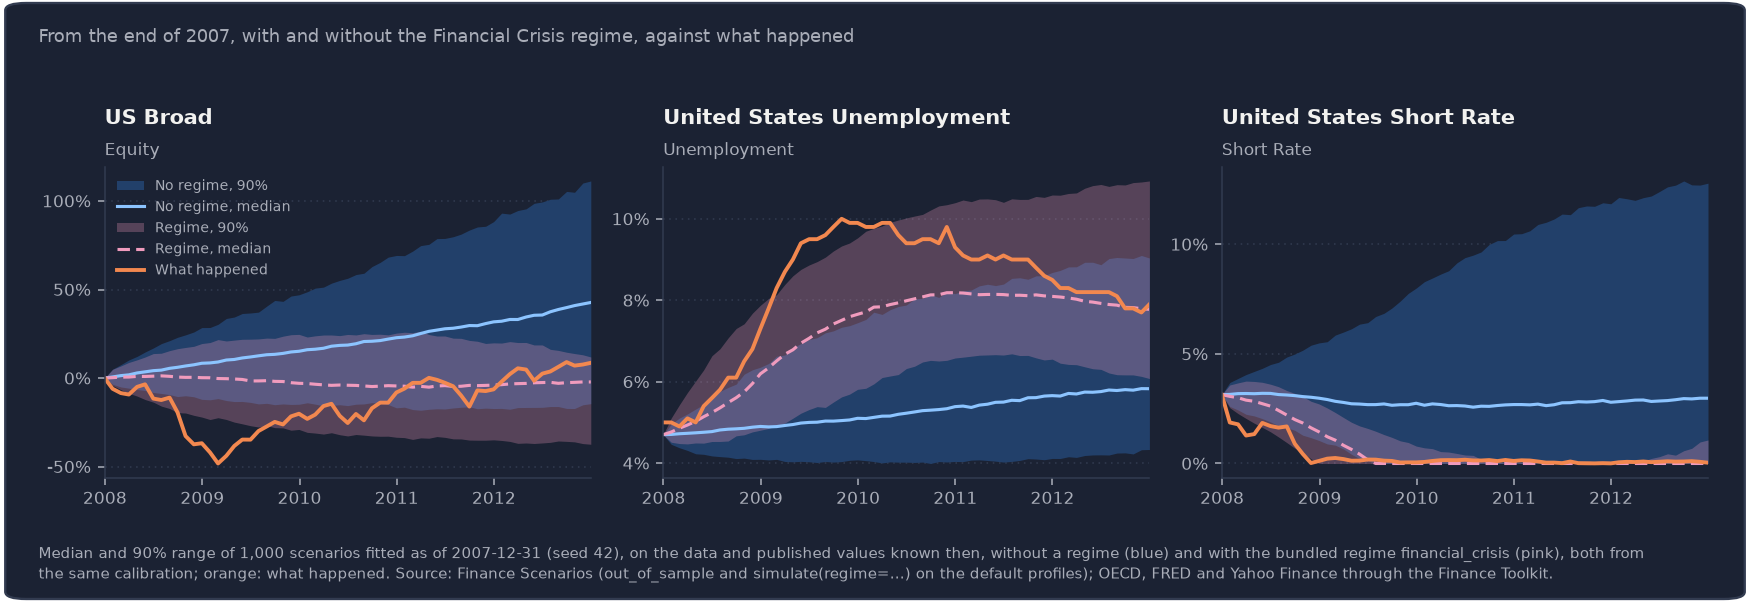
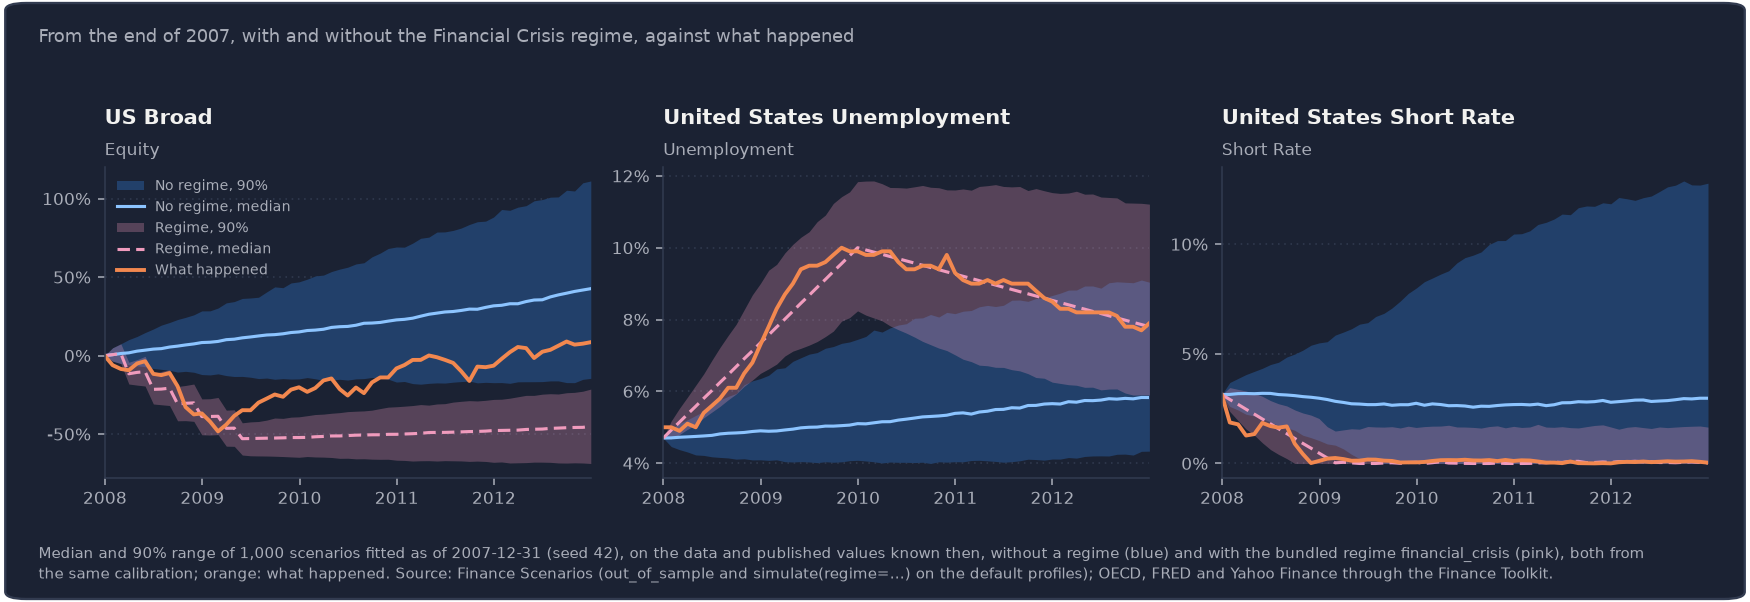
Finance Scenarios: 2008 against the Financial Crisis replay, KNW stochastic volatility mean-adjusted
The 2008 chart is re-run on the regime that replays 2007-09: stocks, unemployment and
the short rate now lie inside its band. The KNW page and its example table follow the
mean-adjusted stochastic-volatility fit.

diff --git a/_pages/financescenarios/documentation/validation/out-of-sample.md b/_pages/financescenarios/documentation/validation/out-of-sample.md
@@ -167,9 +167,9 @@ A 90% band should hold 90% of the years. US and euro-area inflation hold 85% and
 
 ## Crises against the Bundled Regimes {#crises-against-the-bundled-regimes}
 
-The baseline is a model of ordinary times, fitted on a few decades, and the fans above show the crises it does not reach in their first year. That is what the [regimes](/projects/financescenarios/docs/regimes) are for. Each chart below starts from the same past origin and the same calibration as the fan, and runs it twice: without a regime, and with the bundled regime written for that crisis. The test is whether the regime library covers the event, not whether the model foresaw it: the COVID and 2022 regimes are written from those very episodes' published paths, so reaching them shows only that they are calibrated to what happened, and, timed from the origin, they run a month or two early. The financial-crisis regime is the fairer test, since it sets no levels and only keeps the scenarios where stocks fall, unemployment rises and rates are cut together.
+The baseline is a model of ordinary times, fitted on a few decades, and the fans above show the crises it does not reach in their first year. That is what the [regimes](/projects/financescenarios/docs/regimes) are for. Each chart below starts from the same past origin and the same calibration as the fan, and runs it twice: without a regime, and with the bundled regime written for that crisis. The test is whether the regime library covers the event, not whether the model foresaw it: each regime below is written from its episode's published paths, so reaching them shows only that they are calibrated to what happened, and, timed from the origin, they can run a month or two early.
 
-**2008: the financial-crisis regime does not reach it.** It moves the cloud the right way, but not far enough. US stocks fell 48.2% to their low of February 2009; by then 1 in 20 scenarios had fallen 16.4% without the regime and 26.1% with it, and the regime's lowest 5th percentile over the five years is -37.4%. US unemployment peaked at 10.0% in October 2009; by then 1 in 20 scenarios had reached 7.5% without the regime and 9.4% with it, so the peak lies just outside, and the regime's 95th percentile reaches 10.9% only later. The short rate's fall to zero is inside both, and with the regime it is the median path. The chart shows all three from the end of 2007, without and with the regime:
+**2008: the Financial Crisis regime reaches it.** US stocks fell 48.2% to their low of February 2009; by then 1 in 20 scenarios had fallen 16.4% without the regime and 51.3% with it, and the regime's median was down 38.6%. US unemployment peaked at 10.0% in October 2009; by then 1 in 20 scenarios had reached 7.5% without the regime and 11.4% with it, and the regime's median, at 9.6%, was on its way to 10.0%. The short rate's fall to zero is inside both, and with the regime it is the median path. The chart shows all three from the end of 2007, without and with the regime:
 
 {% include theme-image.html src="/assets/images/projects/financescenarios/docs/validation/crisis-2008" alt="From the end of 2007, US stocks, US unemployment and the US short rate without a regime and with the Financial Crisis regime, against what happened" %}
 

diff --git a/_pages/financescenarios/documentation/interest-rates/knw.md b/_pages/financescenarios/documentation/interest-rates/knw.md
@@ -51,7 +51,7 @@ Each variant adds one layer to the one before:
 | KNW with stochastic volatility (`knw_sv`) | A shared hidden turbulence factor $$v$$ that scales volatility and shifts the drift; optional equity leg | Calm and stressed regimes that hit rates, inflation and equity at once |
 | Risk-neutral KNW (`knw_sv` with `measure: risk_neutral`) | A market price of risk fitted to the Treasury curve, closed-form bond prices, and a stochastic deflator for a real-world run | Valuation, and a model yield curve at any maturity |
 
-With the turbulence terms at zero, the equations of KNW with stochastic volatility are plain KNW's. The fits differ, though: plain KNW is fitted on deviations from the history's averages, the stochastic-volatility variant with a free intercept in each equation.
+With the turbulence terms at zero, the equations of KNW with stochastic volatility are plain KNW's, and both are fitted on deviations from the history's averages, so the pair settles at those averages. `mean_estimate: regression` fits a free intercept in each equation instead, which leans the long-run levels toward where the sample ends.
 
 The diagram shows which variable drives which:
 
@@ -308,17 +308,17 @@ Which gives, calibrated on 24 October 2026, among other columns:
 
 | factor | horizon | q0.05 | q0.5 | q0.95 |
 |:-------|--------:|------:|-----:|------:|
-| interest_rate | 1 | 0.0260 | 0.0384 | 0.0521 |
-| interest_rate | 10 | -0.0016 | 0.0271 | 0.0517 |
-| interest_rate | 30 | -0.0029 | 0.0254 | 0.0528 |
-| inflation | 1 | 0.0144 | 0.0301 | 0.0466 |
-| inflation | 10 | 0.0035 | 0.0252 | 0.0494 |
-| inflation | 30 | 0.0033 | 0.0259 | 0.0496 |
-| equity | 1 | -0.1314 | 0.0933 | 0.3908 |
-| equity | 10 | -0.0004 | 0.0890 | 0.1777 |
-| equity | 30 | 0.0298 | 0.0832 | 0.1362 |
+| interest_rate | 1 | 0.0269 | 0.0394 | 0.0530 |
+| interest_rate | 10 | 0.0029 | 0.0318 | 0.0567 |
+| interest_rate | 30 | 0.0015 | 0.0302 | 0.0578 |
+| inflation | 1 | 0.0157 | 0.0311 | 0.0471 |
+| inflation | 10 | 0.0045 | 0.0262 | 0.0507 |
+| inflation | 30 | 0.0041 | 0.0269 | 0.0506 |
+| equity | 1 | -0.1296 | 0.0937 | 0.3893 |
+| equity | 10 | 0.0031 | 0.0926 | 0.1815 |
+| equity | 30 | 0.0343 | 0.0877 | 0.1412 |
 
-The pair starts at a 3.86% rate and 3.50% inflation and settles at about 2.5% for both, the level $$(I - \Phi)^{-1}(c + \lambda\theta_v)$$ where the coupled drift puts it. Stocks earn the short rate plus their premium, about 8.3% a year over 30 years in the median scenario. When plotted, one variable per tab:
+The pair starts at a 3.86% rate and 3.50% inflation and settles at about 3.0% and 2.7%, the history's averages: the fit on deviations from those averages makes them the long-run level $$(I - \Phi)^{-1}(c + \lambda\theta_v)$$. Stocks earn the short rate plus their premium, about 8.8% a year over 30 years in the median scenario. When plotted, one variable per tab:
 
 {% include ft-chart.html id="knw-run" src="/assets/data/financescenarios-guides/knw.json" label="Median, 25-75% and 5-95% band of the US short rate, US inflation and the annualized S&P 500 return in a KNW run with stochastic volatility over thirty years" %}
 
